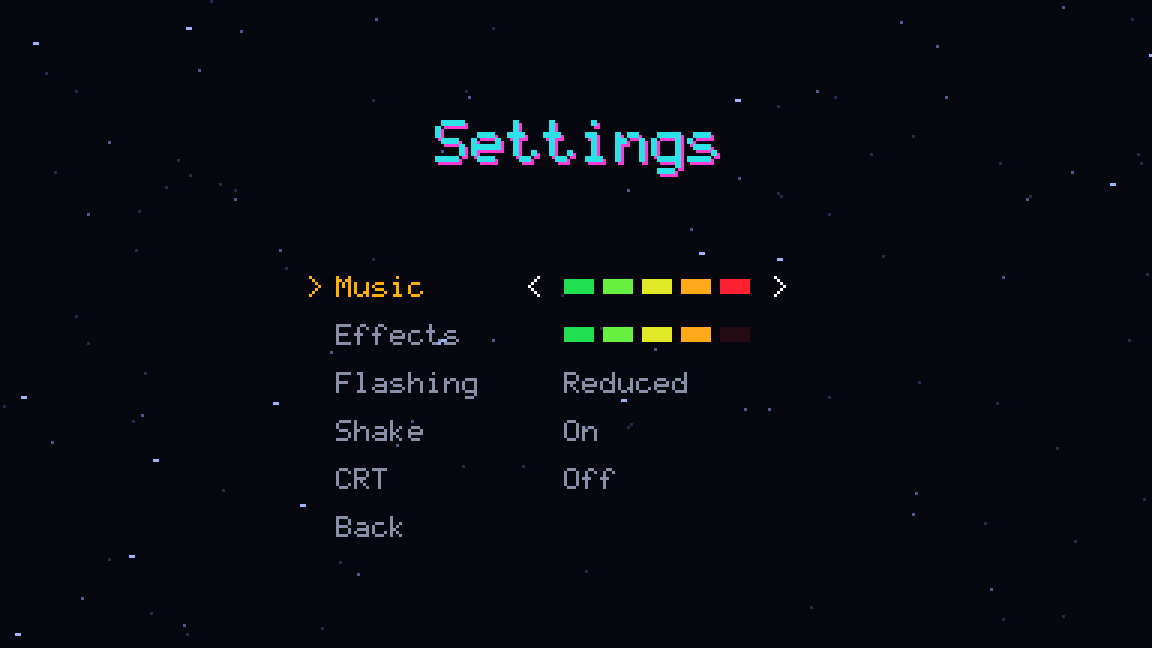
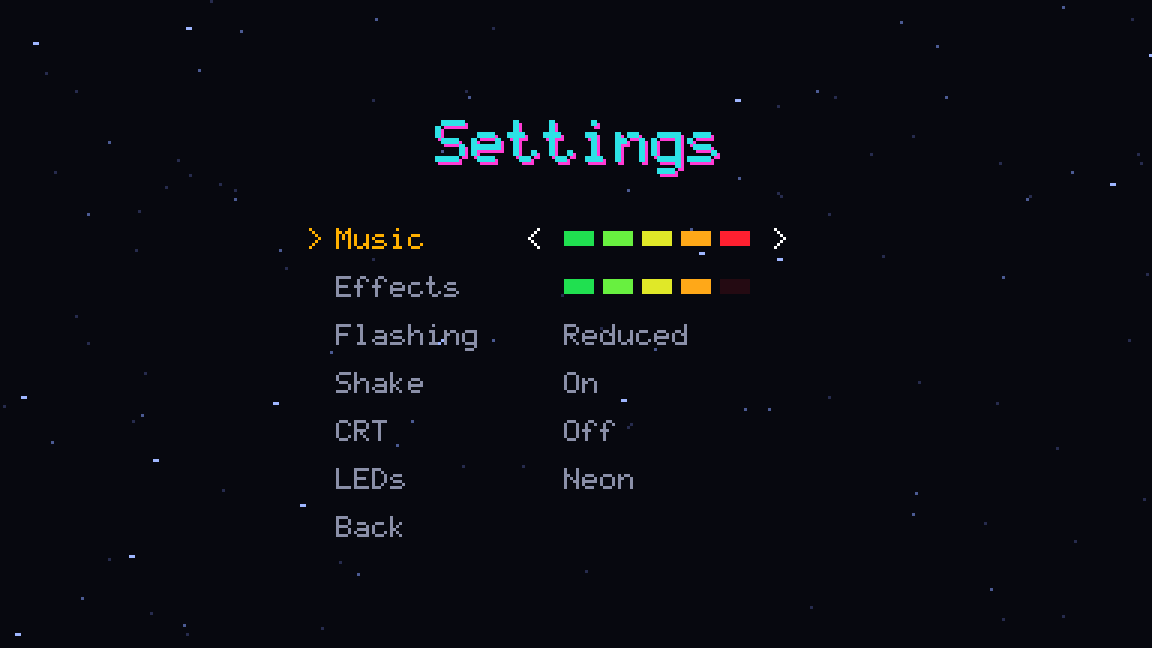
Add colour-blind LED colours
Settings has LEDs, Neon or Colour-blind. Colour-blind lights the walls
with cividis (Nunez, Anderton and Renslow, PLOS ONE 2018), sampled from
Matplotlib 3.9.2 from 0.1 to 1, dark blue to yellow, on every
difficulty; each segment is brighter than the one before, so depth
reads from brightness alone (tested). The settings rows move up to fit.

Claude-Session: https://claude.ai/code/session_01JHfHGCLy1xFvhSVxtBfjqe

diff --git a/packages/client/src/game/screens.ts b/packages/client/src/game/screens.ts
@@ -6,6 +6,7 @@ import { Container, Sprite, Texture } from 'pixi.js';
 import { BRAND } from '../config/brand.ts';
 import { AMBER, BACKGROUND, CYAN, DIM_GREY, GREY, LED_DIM, LED_LIT, LIME, MAGENTA, WHITE } from '../render/palette.ts';
 import { PixelText } from '../render/text.ts';
+import { textWidth } from '../render/font.ts';
 import { DIFFICULTY_LABELS, PAUSE_ITEMS, SETTINGS_ITEMS, TITLE_ITEMS, type PauseItem, type SettingsItem, type TitleItem } from './menu.ts';
 import { VOLUME_LEVELS, type Settings } from './settings.ts';
 import type { BundledSong } from './songs.ts';
@@ -389,15 +390,25 @@ const SETTINGS_LABELS: Record<SettingsItem, string> = {
   flashing: 'Flashing',
   shake: 'Shake',
   crt: 'CRT',
+  leds: 'LEDs',
   back: 'Back',
 };
 
-/** What Flashing, Shake and CRT show for each value. */
-function choiceText(values: Settings, item: 'flashing' | 'shake' | 'crt'): string {
+type ChoiceItem = 'flashing' | 'shake' | 'crt' | 'leds';
+
+function isChoiceItem(item: SettingsItem): item is ChoiceItem {
+  return item === 'flashing' || item === 'shake' || item === 'crt' || item === 'leds';
+}
+
+/** What the two-way settings show for each value. */
+function choiceText(values: Settings, item: ChoiceItem): string {
   if (item === 'flashing') return values.flashing === 'full' ? 'Full' : 'Reduced';
+  if (item === 'leds') return values.leds === 'colourBlind' ? 'Colour-blind' : 'Neon';
   return values[item] ? 'On' : 'Off';
 }
-const SETTINGS_TOP = 92;
+/** The widest two-way value, so its right arrow clears it. */
+const CHOICE_WIDTH = textWidth('Colour-blind');
+const SETTINGS_TOP = 76;
 const SETTINGS_ROW = 16;
 const CELL_W = 10;
 const CELL_H = 5;
@@ -405,7 +416,7 @@ const CELL_GAP = 3;
 
 /**
  * The settings: Music and Effects as rows of five LED cells, lit up to the volume, green to
- * red, with "Off" at 0; Flashing, Shake and CRT as words; then Back.
+ * red, with "Off" at 0; Flashing, Shake, CRT and LED colours as words; then Back.
  */
 export class SettingsScreen {
   readonly container = new Container();
@@ -428,7 +439,8 @@ export class SettingsScreen {
       const left = new PixelText('<', WHITE).place(VALUE_X - 12, y);
       const right = new PixelText('>', WHITE).place(VALUE_X + VOLUME_LEVELS * (CELL_W + CELL_GAP) + 4, y);
       const off = new PixelText('Off', GREY).place(VALUE_X, y);
-      if (item === 'flashing' || item === 'shake' || item === 'crt') {
+      if (isChoiceItem(item)) {
+        right.place(VALUE_X + CHOICE_WIDTH + 4, y);
         this.container.addChild(left, right, off);
       } else if (item !== 'back') {
         for (let i = 0; i < VOLUME_LEVELS; i++) {
@@ -452,7 +464,7 @@ export class SettingsScreen {
       this.#labels[row]!.color = selected ? AMBER : GREY;
       for (const a of this.#arrows[row]!) a.visible = selected;
       if (item === 'back') return;
-      if (item === 'flashing' || item === 'shake' || item === 'crt') {
+      if (isChoiceItem(item)) {
         const value = this.#off[row]!;
         value.text = choiceText(values, item);
         value.color = selected ? WHITE : GREY;

diff --git a/tools/screenshots/shots.ts b/tools/screenshots/shots.ts
@@ -137,7 +137,8 @@ export const shots: Shot[] = [
       '"Settings" in large cyan pixel letters with a magenta shadow. Below it, five rows in small pixel ' +
       'type. "Music" in amber with an amber ">" before it, then "<", five LED cells lit green, yellow-green, ' +
       'yellow, orange and red, and ">". "Effects" in grey with four of its five cells lit and the fifth dim ' +
-      'red. "Flashing" with "Reduced", "Shake" with "On", "CRT" with "Off", and "Back", all in grey.',
+      'red. "Flashing" with "Reduced", "Shake" with "On", "CRT" with "Off", "LEDs" with "Neon", and "Back", ' +
+      'all in grey.',
     caption: 'The settings screen at the defaults. Not used in the README.',
     usedIn: [],
   },
@@ -289,6 +290,16 @@ export const shots: Shot[] = [
       'right: "Kills 29" 6700, "Beat bonus" 400, "Score" 7100, and in amber "New best" 7100. Below them ' +
       '"R Replay  S Save" in grey and "Any key Title" in cyan.',
     caption: 'The results over play, as if the test song ended at 40 seconds, the score a new best. Not used in the README.',
+    usedIn: [],
+  },
+  {
+    id: 'colour-blind',
+    query: { scene: 'play', song: 'pb-fixture-01', t: '21.5', difficulty: 'normal', seed: '1', leds: 'colourBlind' },
+    alt:
+      'The gameplay frame with the LED columns in blue, grey and yellow instead of green to red: dark blue at ' +
+      'the screen edges, through slate and khaki greys, to bright yellow at the tips, each segment brighter ' +
+      'than the one before. The ship, enemies, shots, copper bars and HUD are as in the gameplay shot.',
+    caption: 'The gameplay shot with the LEDs setting on Colour-blind. Not used in the README.',
     usedIn: [],
   },
   {

diff --git a/packages/client/src/render/terrain.ts b/packages/client/src/render/terrain.ts
@@ -4,7 +4,7 @@
 
 import { BAR_LIT_WIDTH, BAR_PITCH, Difficulty, SEGMENT_LIT_HEIGHT, type Level } from '@game/core';
 import { Container, Sprite, Texture } from 'pixi.js';
-import { LED_LIT, LED_PEAK, LED_RED } from './palette.ts';
+import { LED_CIVIDIS, LED_LIT, LED_PEAK, LED_RED } from './palette.ts';
 import {
   MAX_VISIBLE_BARS,
   SEGMENTS_PER_SIDE,
@@ -62,8 +62,12 @@ export class TerrainView {
   #columns: BarColumn[] = [];
   #level: Level | null = null;
   #showPeaks = false;
-  /** The lit colours: the neon green to red, or on Impossible all red (LED_RED). */
+  /**
+   * The lit colours: the neon green to red, on Impossible all red (LED_RED), and with the
+   * LED colours setting on Colour-blind, cividis (LED_CIVIDIS) everywhere.
+   */
   #lit: readonly number[] = LED_LIT;
+  #colourBlind = false;
   #range: BarRange = { first: 0, end: 0 };
 
   constructor() {
@@ -76,12 +80,22 @@ export class TerrainView {
     return this.#lit;
   }
 
+  /** The LED colours setting: true for Colour-blind. */
+  setColourBlind(on: boolean): void {
+    this.#colourBlind = on;
+    this.#pickLit();
+  }
+
+  #pickLit(): void {
+    this.#lit = this.#colourBlind ? LED_CIVIDIS : this.#level?.difficulty === 'impossible' ? LED_RED : LED_LIT;
+  }
+
   setLevel(level: Level | null): void {
     this.#level = level;
     // Peak dots are drawn only where they are solid: a dot the ship could fly through
     // would look like terrain.
     this.#showPeaks = level !== null && Difficulty[level.difficulty].solidPeaks;
-    this.#lit = level?.difficulty === 'impossible' ? LED_RED : LED_LIT;
+    this.#pickLit();
     if (!level) for (const c of this.#columns) c.visible = false;
   }
 

diff --git a/packages/client/test/palette.test.ts b/packages/client/test/palette.test.ts
@@ -1,0 +1,30 @@
+// The colour-blind LED colours (render/palette.ts, LED_CIVIDIS): every segment brighter than
+// the one before it, edge to tip, so the walls' depth reads from brightness alone, which
+// every kind of colour vision sees. The neon green to red doesn't: its greens are brighter
+// than its reds.
+
+import { describe, expect, it } from 'vitest';
+import { BACKGROUND, LED_CIVIDIS, LED_LIT } from '../src/render/palette.ts';
+
+/** WCAG 2.2 relative luminance of a 0xRRGGBB colour. */
+function luminance(c: number): number {
+  const lin = (v: number): number => {
+    const s = v / 255;
+    return s <= 0.04045 ? s / 12.92 : ((s + 0.055) / 1.055) ** 2.4;
+  };
+  return 0.2126 * lin((c >> 16) & 255) + 0.7152 * lin((c >> 8) & 255) + 0.0722 * lin(c & 255);
+}
+
+describe('LED colours', () => {
+  it('brighten edge to tip on Colour-blind, and stand clear of the background', () => {
+    expect(LED_CIVIDIS).toHaveLength(LED_LIT.length);
+    for (let k = 1; k < LED_CIVIDIS.length; k++) expect(luminance(LED_CIVIDIS[k]!)).toBeGreaterThan(luminance(LED_CIVIDIS[k - 1]!));
+    // WCAG contrast ratio of the edge segment against the background.
+    const ratio = (luminance(LED_CIVIDIS[0]!) + 0.05) / (luminance(BACKGROUND) + 0.05);
+    expect(ratio).toBeGreaterThan(1.5);
+  });
+
+  it('do not on Neon, which is why the setting exists', () => {
+    expect(luminance(LED_LIT[LED_LIT.length - 1]!)).toBeLessThan(luminance(LED_LIT[0]!));
+  });
+});

diff --git a/packages/client/test/settings.test.ts b/packages/client/test/settings.test.ts
@@ -16,7 +16,7 @@ describe('settings', () => {
 
   it('saves and loads', () => {
     const s = memory();
-    const saved = { music: 2, effects: 0, flashing: 'full', shake: false, crt: true } as const;
+    const saved = { music: 2, effects: 0, flashing: 'full', shake: false, crt: true, leds: 'colourBlind' } as const;
     saveSettings(s, saved);
     expect(loadSettings(s)).toEqual(saved);
   });
@@ -27,7 +27,7 @@ describe('settings', () => {
     expect(loadSettings(null)).toEqual(DEFAULT_SETTINGS);
     s.setItem('pattern-break.settings', '{not json');
     expect(loadSettings(s)).toEqual(DEFAULT_SETTINGS);
-    s.setItem('pattern-break.settings', JSON.stringify({ music: 9, effects: 2.5, flashing: 'none', shake: 1, crt: 'yes' }));
+    s.setItem('pattern-break.settings', JSON.stringify({ music: 9, effects: 2.5, flashing: 'none', shake: 1, crt: 'yes', leds: 'blue' }));
     expect(loadSettings(s)).toEqual(DEFAULT_SETTINGS);
     s.setItem('pattern-break.settings', JSON.stringify({ music: 1 }));
     expect(loadSettings(s)).toEqual({ ...DEFAULT_SETTINGS, music: 1 });
@@ -37,6 +37,7 @@ describe('settings', () => {
     expect(DEFAULT_SETTINGS.flashing).toBe('reduced');
     expect(DEFAULT_SETTINGS.shake).toBe(true);
     expect(DEFAULT_SETTINGS.crt).toBe(false);
+    expect(DEFAULT_SETTINGS.leds).toBe('neon');
   });
 
   it('ignores storage that throws', () => {

diff --git a/packages/client/src/game/menu.ts b/packages/client/src/game/menu.ts
@@ -235,7 +235,7 @@ export class ControlsPages {
   }
 }
 
-export const SETTINGS_ITEMS = ['music', 'effects', 'flashing', 'shake', 'crt', 'back'] as const;
+export const SETTINGS_ITEMS = ['music', 'effects', 'flashing', 'shake', 'crt', 'leds', 'back'] as const;
 export type SettingsItem = (typeof SETTINGS_ITEMS)[number];
 
 /** The two-way settings, each value left to right as the screen shows them. */
@@ -243,6 +243,7 @@ export const SETTINGS_CHOICES = {
   flashing: ['reduced', 'full'],
   shake: [false, true],
   crt: [false, true],
+  leds: ['neon', 'colourBlind'],
 } as const;
 type Choice = keyof typeof SETTINGS_CHOICES;
 
@@ -251,7 +252,8 @@ function isChoice(item: SettingsItem): item is Choice {
 }
 
 /**
- * Music and Effects volume, 0 (off) to 5; Flashing (Reduced or Full), Shake and CRT (Off or On);
+ * Music and Effects volume, 0 (off) to 5; Flashing (Reduced or Full), Shake and CRT (Off or
+ * On), LED colours (Neon or Colour-blind);
  * then Back. Left and right change a value and stop at the ends; confirm steps a volume up
  * and wraps from 5 to off, and flips a two-way setting, so a click alone can reach every
  * value. Back, or confirm on Back, leaves.

diff --git a/packages/client/src/render/palette.ts b/packages/client/src/render/palette.ts
@@ -41,5 +41,19 @@ export function mix(base: number, color: number, amount256: number): number {
  */
 export const LED_RED: readonly number[] = Array.from({ length: 12 }, (_, k) => mix(0x3a0006, 0xff2a2a, Math.round((k * 256) / 11)));
 
+/**
+ * Lit segments with the LED colours setting on Colour-blind: cividis (Nunez, Anderton and
+ * Renslow, "Optimizing colormaps with consideration for color vision deficiency to enable
+ * accurate interpretation of scientific data", PLOS ONE 13(7), 2018,
+ * doi:10.1371/journal.pone.0199239), dark blue to yellow, which reads nearly the same to
+ * people with red-green colour blindness as to everyone else and brightens evenly. These are
+ * Matplotlib 3.9.2's cividis entries 26, 46, 67, ..., 255 (0.1 to 1 in 11 steps), so the
+ * segment at the screen edge stays clear of the background.
+ */
+export const LED_CIVIDIS: readonly number[] = [
+  0x0c3470, 0x2f426d, 0x46516c, 0x5a5f6e, 0x6c6e72, 0x7e7d78, 0x928d78, 0xa79d73, 0xbcae6c, 0xd2c060, 0xe9d34e,
+  0xfee838,
+];
+
 /** Unlit segments: the lit colour at about 12% over the background. */
 export const LED_DIM: readonly number[] = LED_LIT.map((c) => mix(BACKGROUND, c, 30));

diff --git a/packages/client/src/game/settings.ts b/packages/client/src/game/settings.ts
@@ -16,9 +16,11 @@ export interface Settings {
   shake: boolean;
   /** The CRT look: bloom, scanlines and a vignette (render/crt.ts). */
   crt: boolean;
+  /** The walls' LED colours: neon green to red, or colour-blind safe (LED_CIVIDIS). */
+  leds: 'neon' | 'colourBlind';
 }
 
-export const DEFAULT_SETTINGS: Settings = { music: 5, effects: 4, flashing: 'reduced', shake: true, crt: false };
+export const DEFAULT_SETTINGS: Settings = { music: 5, effects: 4, flashing: 'reduced', shake: true, crt: false, leds: 'neon' };
 
 const KEY = 'pattern-break.settings';
 
@@ -43,6 +45,7 @@ export function loadSettings(storage: Pick<Storage, 'getItem'> | null): Settings
       flashing: o['flashing'] === 'full' || o['flashing'] === 'reduced' ? o['flashing'] : DEFAULT_SETTINGS.flashing,
       shake: typeof o['shake'] === 'boolean' ? o['shake'] : DEFAULT_SETTINGS.shake,
       crt: typeof o['crt'] === 'boolean' ? o['crt'] : DEFAULT_SETTINGS.crt,
+      leds: o['leds'] === 'neon' || o['leds'] === 'colourBlind' ? o['leds'] : DEFAULT_SETTINGS.leds,
     };
   } catch {
     return { ...DEFAULT_SETTINGS };

diff --git a/packages/client/test/menu.test.ts b/packages/client/test/menu.test.ts
@@ -146,7 +146,7 @@ describe('SettingsMenu', () => {
     expect(m.apply('back')).toBe('back');
   });
 
-  it('sets Flashing, Shake and CRT with left and right, and flips them on confirm', () => {
+  it('sets Flashing, Shake, CRT and LED colours with left and right, and flips them on confirm', () => {
     const m = new SettingsMenu(DEFAULT_SETTINGS);
     m.cursor = SETTINGS_ITEMS.indexOf('flashing');
     expect(m.apply('left')).toBeNull();
@@ -167,6 +167,11 @@ describe('SettingsMenu', () => {
     expect(m.apply('left')).toBeNull();
     expect(m.apply('right')).toBe('changed');
     expect(m.values.crt).toBe(true);
+    m.apply('down');
+    expect(m.item).toBe('leds');
+    expect(m.apply('confirm')).toBe('changed');
+    expect(m.values.leds).toBe('colourBlind');
+    expect(m.apply('right')).toBeNull();
   });
 
   it('works on its own copy of the settings', () => {

diff --git a/packages/client/src/game/game.ts b/packages/client/src/game/game.ts
@@ -825,12 +825,13 @@ export class Game {
     this.#r.sparks.setSong(level, look);
   }
 
-  /** Sets the flashes' caps, the shake and the CRT look from the settings. */
+  /** Sets the flashes' caps, the shake, the CRT look and the LED colours from the settings. */
   #applyLook(): void {
     this.#r.flashes.flashing = this.#settings.flashing;
     this.#r.copper.flashing = this.#settings.flashing;
     this.#r.shakeOn = this.#settings.shake;
     this.#r.crt = this.#settings.crt;
+    this.#r.terrain.setColourBlind(this.#settings.leds === 'colourBlind');
     if (this.#hangar) this.#hangar.strobePeak = FLASH_PEAK[this.#settings.flashing];
   }
 

diff --git a/packages/client/src/capture.ts b/packages/client/src/capture.ts
@@ -16,6 +16,8 @@ export interface CaptureParams {
   boom: number | null;
   /** The CRT setting on (`crt=1`). */
   crt: boolean;
+  /** The LED colours setting on Colour-blind (`leds=colourBlind`). */
+  colourBlind: boolean;
 }
 
 declare global {
@@ -39,6 +41,7 @@ export function readCaptureParams(search: string = window.location.search): Capt
     seed: Number.isInteger(seed) ? seed : 1,
     boom: Number.isFinite(boom) ? boom : null,
     crt: q.get('crt') === '1',
+    colourBlind: q.get('leds') === 'colourBlind',
   };
 }
 

diff --git a/packages/client/src/game/capture-scene.ts b/packages/client/src/game/capture-scene.ts
@@ -63,6 +63,7 @@ export async function runCapture(r: GameRenderer, params: CaptureParams): Promis
   if (!song) throw new Error(`unknown song ${params.song ?? ''}`);
   const difficulty: DifficultyName = params.difficulty in Difficulty ? (params.difficulty as DifficultyName) : 'normal';
   r.crt = params.crt;
+  r.terrain.setColourBlind(params.colourBlind);
 
   const menuScene = (container: Container): Promise<void> => {
     r.ui.addChild(container);
